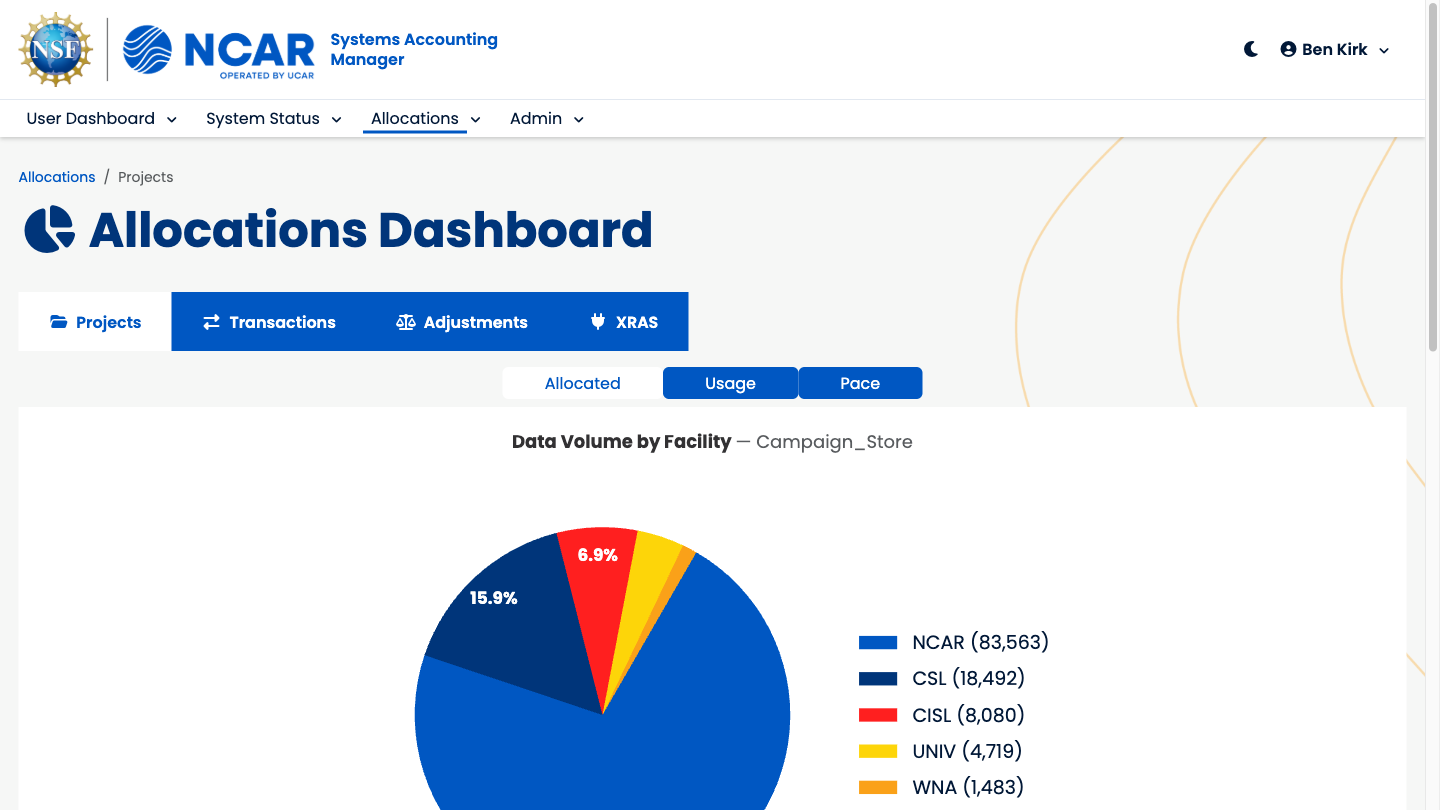
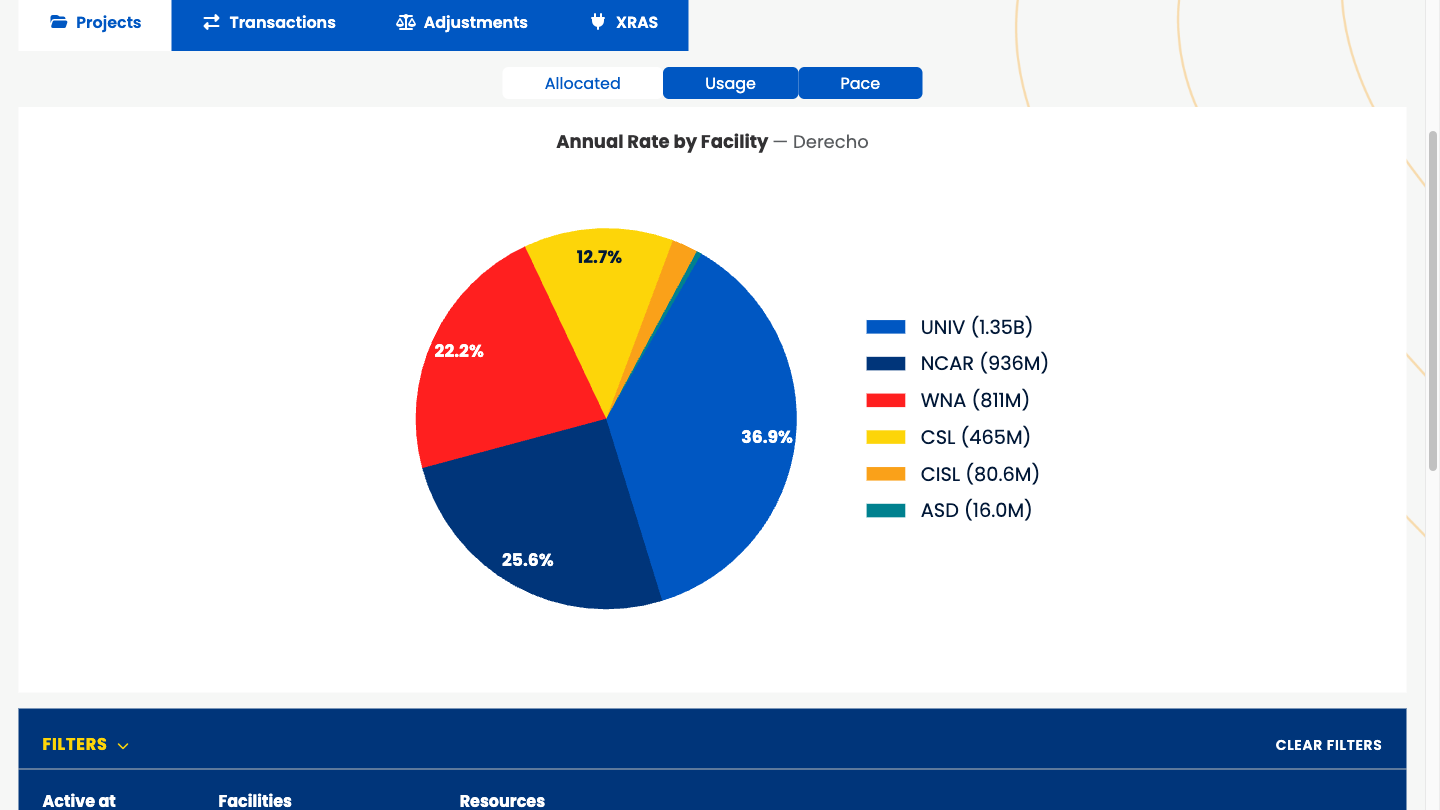
samuel: Part 1 image picks; LOC chart stacked as source / tests / docs
- Usage shot: WYOM0247 on Derecho (dense, 14-16 users), which reads far
  better than SCSG0001's sparse history; the phone shot matches it.
- Allocations shot: the Derecho facility pie instead of Campaign Store.
- The Progression chart is a stacked area: source 186K + tests 153K + docs
  & other 105K = 444K. Source alone sits under legacy's ~250K, which the
  speaker notes now say. refresh_data.sh emits the split, and the plot
  asserts the bands sum to the March-method total.

Claude-Session: https://claude.ai/code/session_01FrvQq5Rt4GmG6NPZJXfWix

diff --git a/docs/samuel/plot_progression.py b/docs/samuel/plot_progression.py
@@ -14,47 +14,72 @@ FONTS = HERE.parent / "common/_extensions/benkirk/ncar/ncar-assets/fonts/Poppins
 for ttf in FONTS.glob("*.ttf"):
     font_manager.fontManager.addfont(str(ttf))
 
-NCAR_BLUE, INK, MUTED, GRID = "#0057C2", "#00357A", "#6B7280", "#E5E7EB"
+INK, MUTED, GRID = "#00357A", "#6B7280", "#E5E7EB"
+# Bottom to top. Blue/orange validated (dataviz validate_palette.js); gray is the "other" fold.
+BANDS = [("source_lines", "Source", "#0057C2"),
+         ("test_lines", "Tests", "#E8890C"),
+         ("other_lines", "Docs & other", "#B8BEC7")]
 LEGACY_LOC = 250_000          # "roughly 250K lines", Confessions of a Vibe Coder, slide 3
 TALK = date(2026, 3, 11)      # the March talk the series picks up from
 
 rows = list(csv.DictReader(open(HERE / "data/loc_progression.tsv"), delimiter="\t"))
 x = [date.fromisoformat(r["date"]) for r in rows]
-y = [int(r["lines"]) for r in rows]
+series = [[int(r[col]) for r in rows] for col, _, _ in BANDS]
+total = [int(r["lines"]) for r in rows]
+assert all(sum(v) == t for *v, t in zip(*series, total)), "bands must sum to the total"
 
 plt.rcParams.update({"font.family": "Poppins", "font.size": 13})
 fig, ax = plt.subplots(figsize=(10, 4.2), dpi=200)
-ax.fill_between(x, y, color=NCAR_BLUE, alpha=0.10, linewidth=0)
-ax.plot(x, y, color=NCAR_BLUE, linewidth=2, solid_joinstyle="round", solid_capstyle="round")
+ax.stackplot(x, *series, colors=[c for _, _, c in BANDS],
+             edgecolor="white", linewidth=2)          # 2px surface seam between bands
 
 ax.axhline(LEGACY_LOC, color=MUTED, linewidth=1.2, linestyle=(0, (4, 3)))
 ax.text(x[0], LEGACY_LOC, "legacy SAM, ~250K lines†", color=MUTED, fontsize=11,
         va="bottom", ha="left")
 
+def k(v):
+    return f"{v/1e3:,.1f}K" if v < 10_000 else f"{v/1e3:,.0f}K"
+
+# Direct labels: each band at its vertical middle on the last point.
+last, base = len(x) - 1, 0
+for (_, label, _), vals in zip(BANDS, series):
+    mid = base + vals[last] / 2
+    ax.annotate(f"{label}  {k(vals[last])}", (x[last], mid), xytext=(10, 0),
+                textcoords="offset points", va="center", ha="left", color=INK, fontsize=11)
+    base += vals[last]
+ax.annotate(f"Total  {k(total[last])}", (x[last], total[last]), xytext=(10, 0),
+            textcoords="offset points", va="center", ha="left", color=INK, fontsize=11,
+            fontweight="bold")
+
 def mark(i, label, dx, dy, ha="center"):
-    ax.plot(x[i], y[i], "o", color=NCAR_BLUE, markersize=8,
-            markeredgecolor="white", markeredgewidth=2, zorder=3)
-    ax.annotate(label, (x[i], y[i]), xytext=(dx, dy), textcoords="offset points",
+    ax.plot(x[i], total[i], "o", color=INK, markersize=7,
+            markeredgecolor="white", markeredgewidth=2, zorder=3, clip_on=False)
+    ax.annotate(label, (x[i], total[i]), xytext=(dx, dy), textcoords="offset points",
                 ha=ha, color=INK, fontsize=11)
 
 talk = max(i for i, d in enumerate(x) if d <= TALK)
-mark(0, f"{y[0]/1e3:,.1f}K", 0, 12)
-mark(talk, f"the March talk\n{y[talk]/1e3:,.0f}K", 0, 14)
-mark(len(x) - 1, f"today\n{y[-1]/1e3:,.0f}K", -14, 4, ha="right")
+mark(0, k(total[0]), 4, 12, ha="left")
+mark(talk, f"the March talk\n{k(total[talk])}", 0, 14)
 
 ax.yaxis.set_major_formatter(FuncFormatter(lambda v, _: f"{v/1e3:,.0f}K" if v else "0"))
-ax.set_ylim(0, max(y) * 1.15)
+ax.set_ylim(0, max(total) * 1.15)
+ax.set_xlim(x[0], x[last])
 for side in ("top", "right", "left"):
     ax.spines[side].set_visible(False)
 ax.spines["bottom"].set_color(MUTED)
-ax.tick_params(colors=MUTED, length=0)
+ax.tick_params(colors=MUTED, length=0, labelsize=12)
 ax.grid(axis="y", color=GRID, linewidth=0.8)
 ax.set_axisbelow(True)
 # One tick per data point (each a month-end), the year shown where it changes.
 ax.set_xticks(x, [f"{d:%b}\n{d:%Y}" if i == 0 or d.month == 1 else f"{d:%b}"
                   for i, d in enumerate(x)])
-FOOTNOTE = ("† Every text line on main (code, tests, docs, fixtures): the method of the March talk.\n"
+handles = [plt.Rectangle((0, 0), 1, 1, color=c) for _, _, c in BANDS]
+ax.legend(handles, [lbl for _, lbl, _ in BANDS], loc="upper left", ncol=3, frameon=False,
+          fontsize=11, labelcolor=INK, bbox_to_anchor=(0, 1.02))
+
+FOOTNOTE = ("† Every text line on main, the method of the March talk. Tests: tests/ and test_*.py; "
+            "docs & other: docs/ and non-code files.\n"
             "   Legacy SAM's ~250K was counted differently, so read it as a landmark, not a race.")
-fig.tight_layout(rect=(0, 0.11, 1, 1))
-fig.text(0.01, 0.015, FOOTNOTE, color=MUTED, fontsize=10, ha="left", va="bottom")
+fig.tight_layout(rect=(0, 0.11, 0.87, 1))            # right margin holds the direct labels
+fig.text(0.01, 0.015, FOOTNOTE, color=MUTED, fontsize=9.5, ha="left", va="bottom")
 fig.savefig(HERE / "images/loc_progression.png", transparent=False, facecolor="white")
